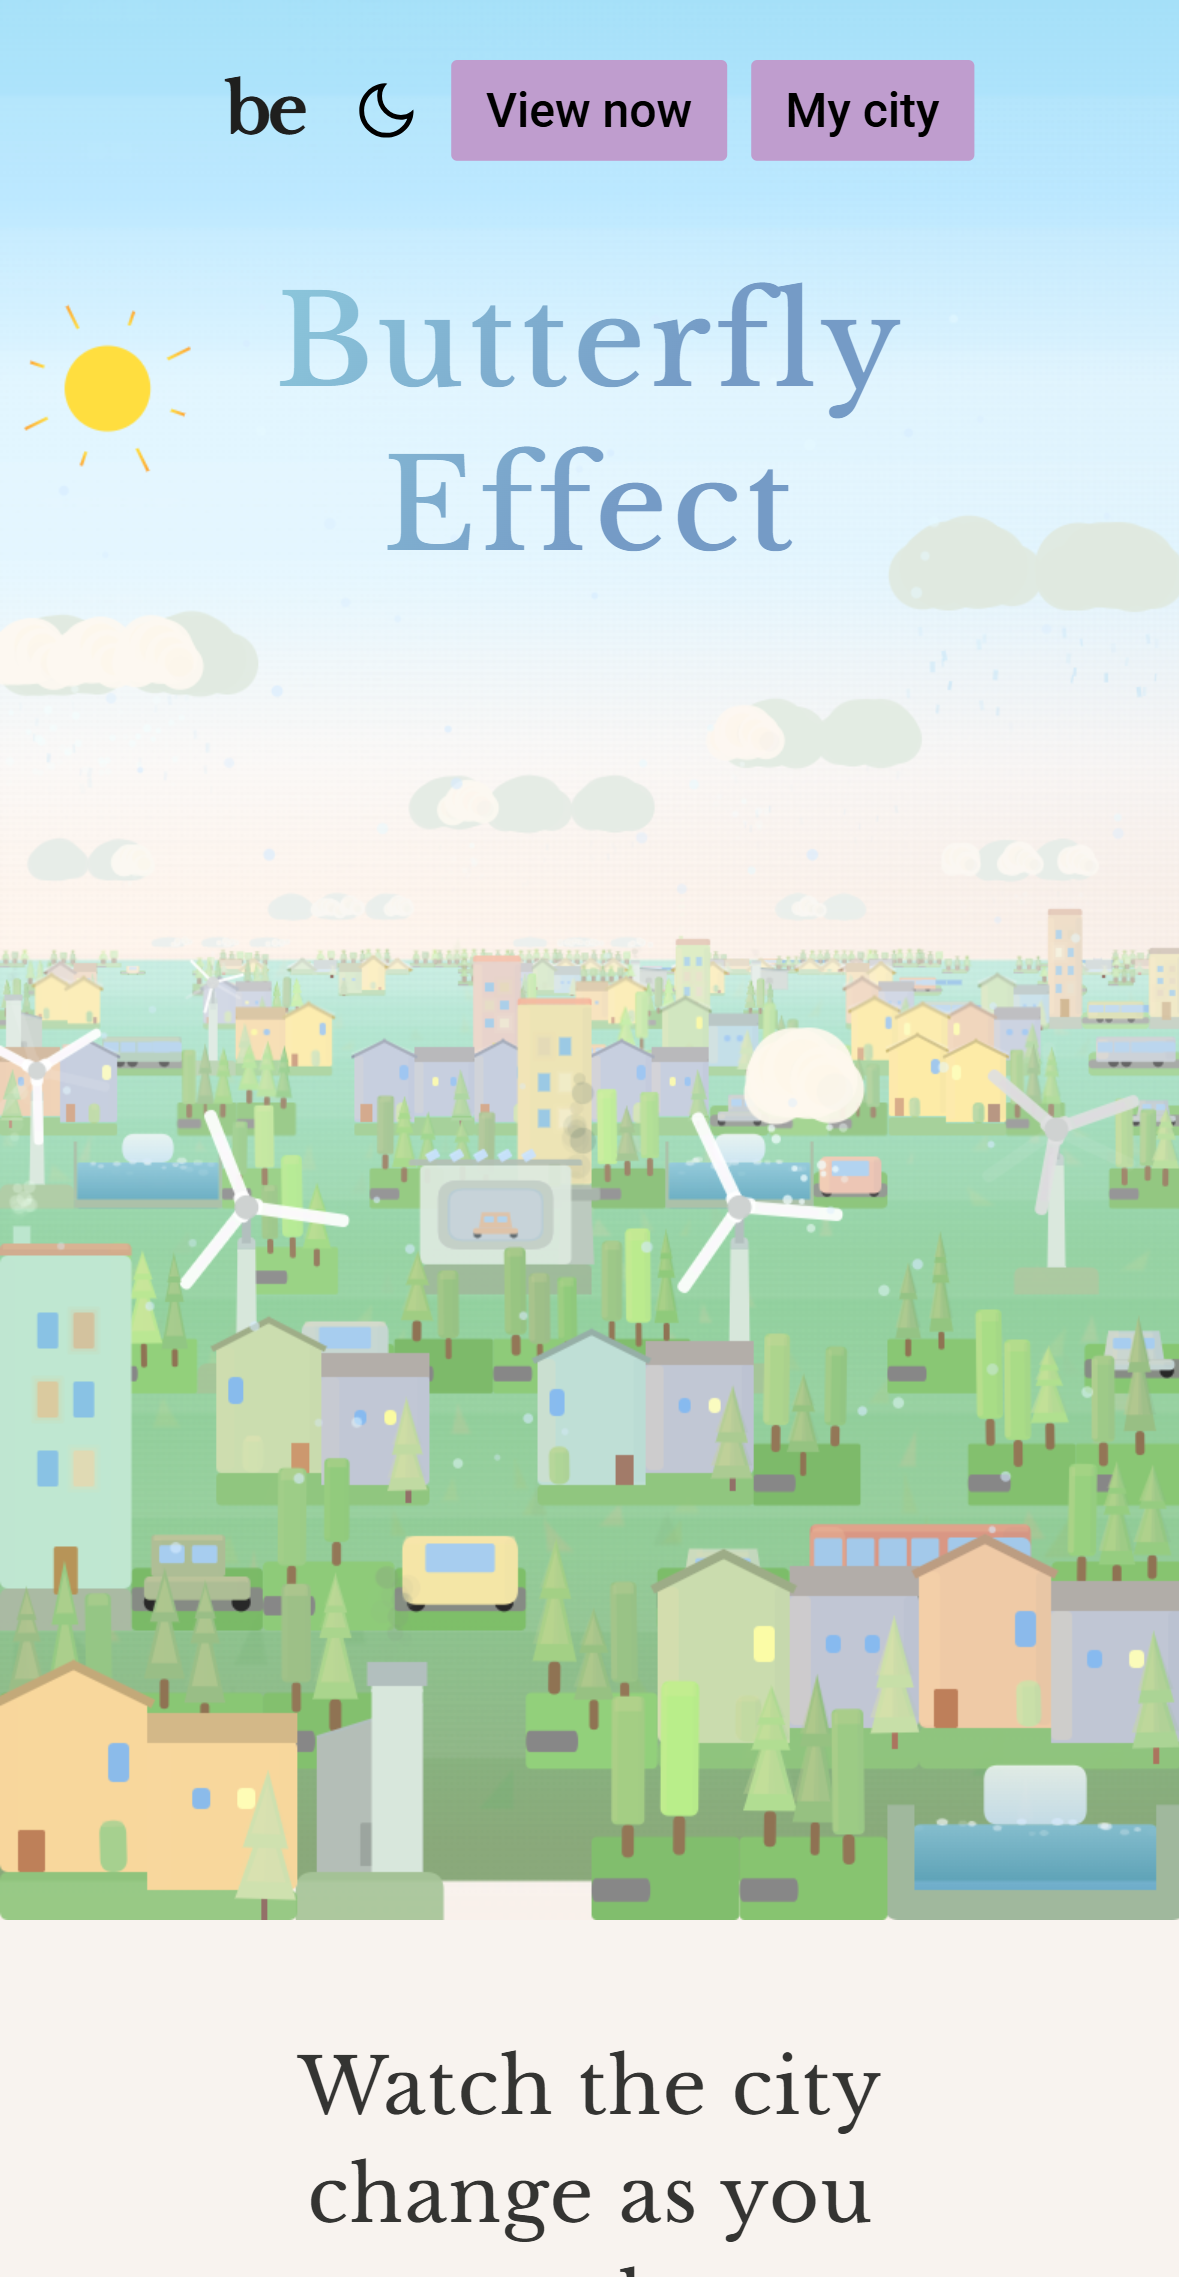
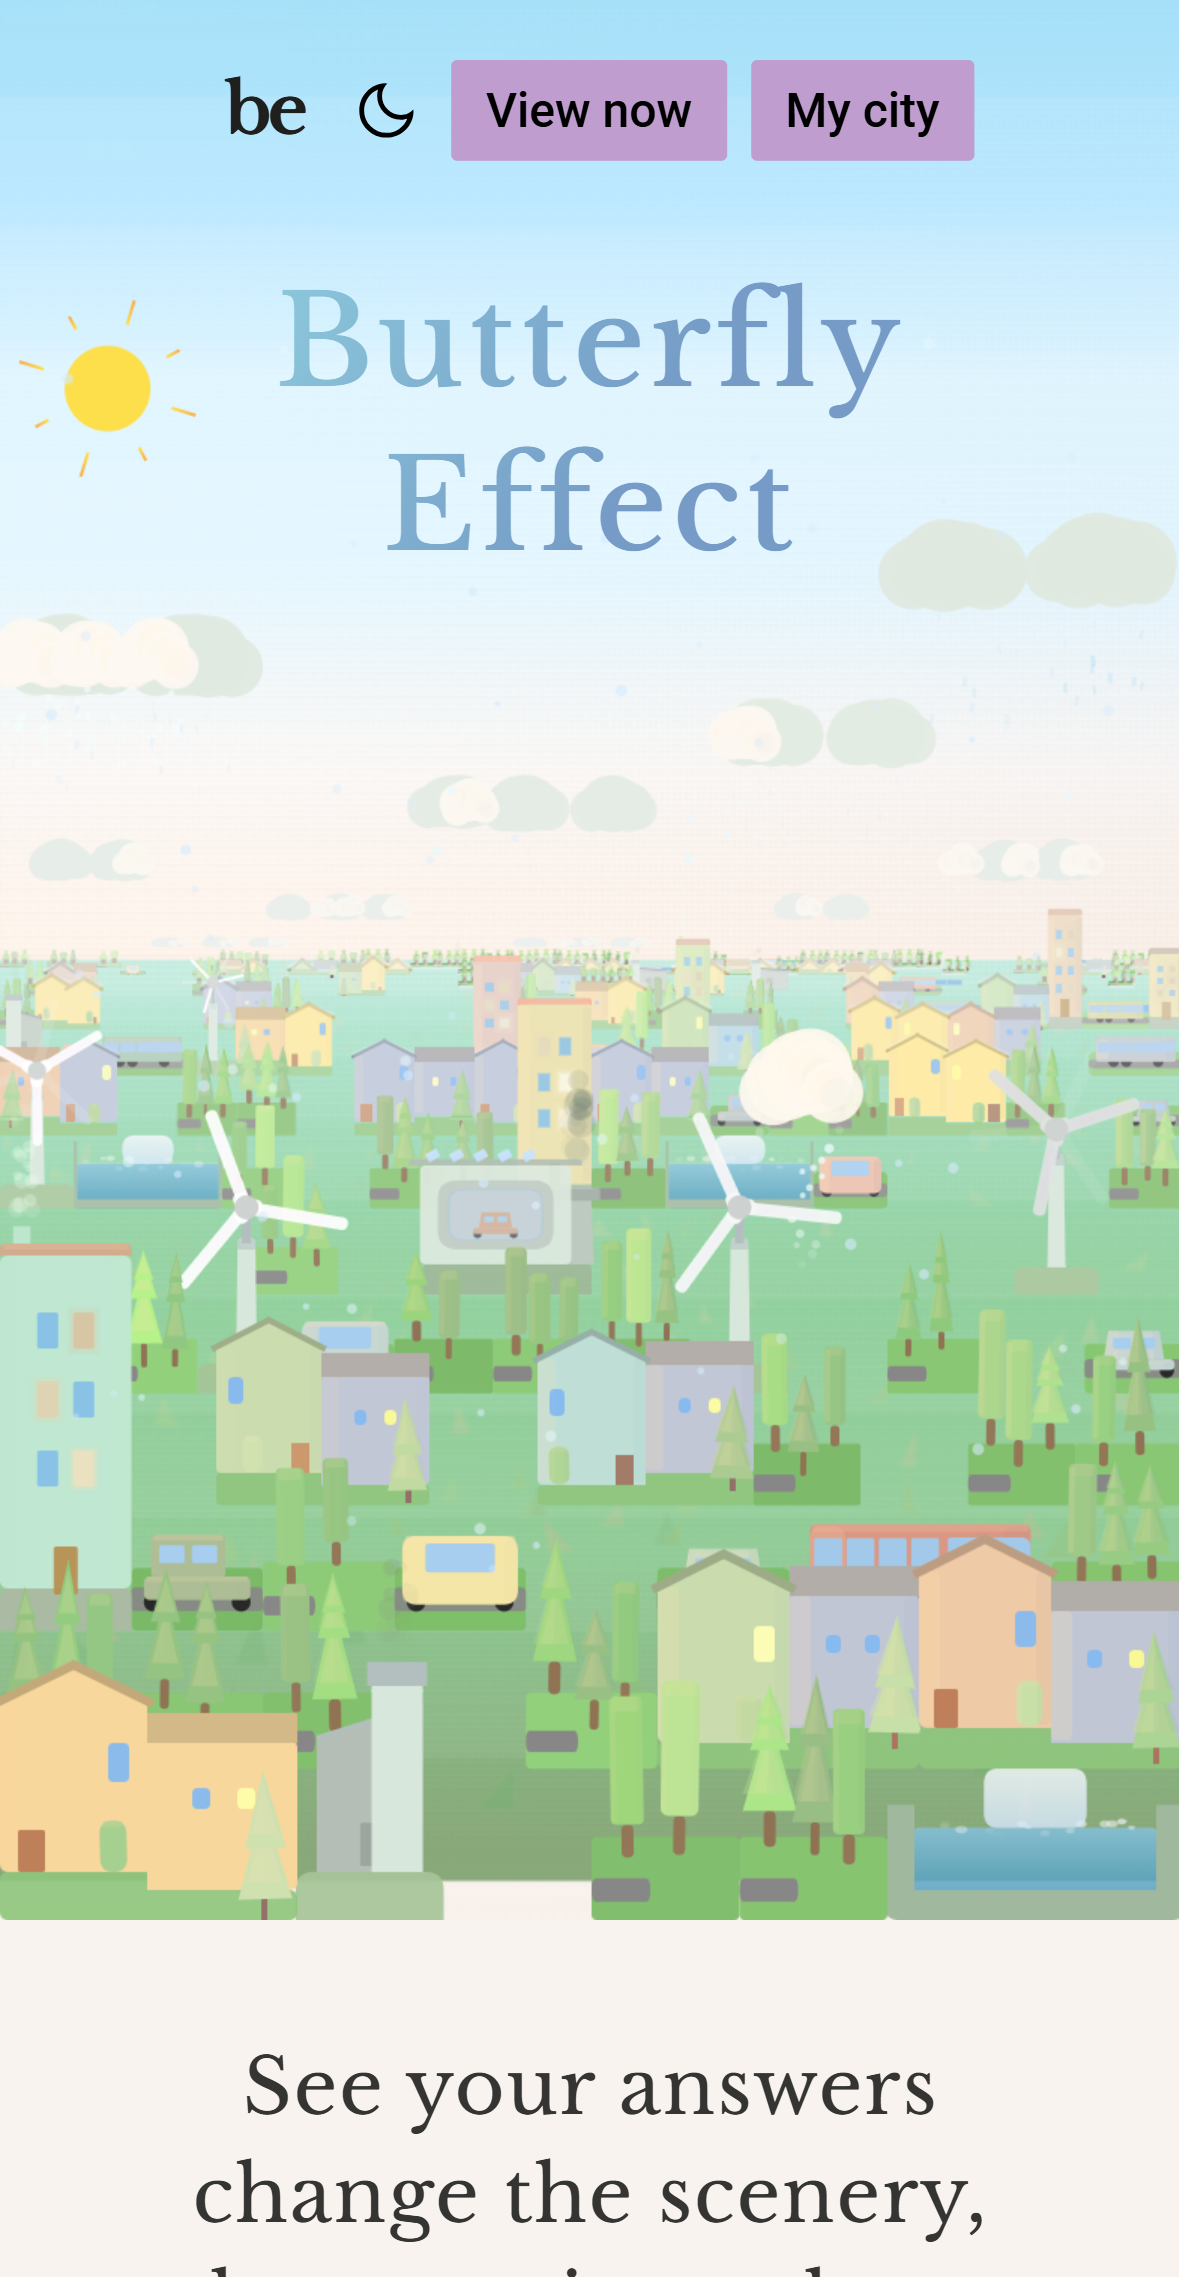
Update onboarding copy and media captures

diff --git a/app/src/scene-canvas/scene-rules/placement-rules/questionnaire.ts b/app/src/scene-canvas/scene-rules/placement-rules/questionnaire.ts
@@ -805,7 +805,7 @@ export const QUESTIONNAIRE_PLACEMENTS: ScenePlacementRules = {
           villa: { count: count(1, 3, 4), quota: Q.villa },
           car: { count: count(1, 2, 1), quota: Q.car },
           bus: { count: count(1, 1, 0), quota: Q.bus },
-          trees: { count: count(1, 6, 8), quota: Q.trees },
+          trees: { count: count(1, 6, 24), quota: Q.trees },
         },
       },
       {
@@ -815,7 +815,7 @@ export const QUESTIONNAIRE_PLACEMENTS: ScenePlacementRules = {
         radius: { tiles: 6, xDistort: 8, yDistort: 0.8 },
         shapes: {
           villa: { count: count(0, 0, 2), quota: Q.villa },
-          trees: { count: count(0, 0, 6), quota: Q.trees },
+          trees: { count: count(0, 0, 16), quota: Q.trees },
         },
       },
       {
@@ -896,7 +896,7 @@ export const QUESTIONNAIRE_PLACEMENTS: ScenePlacementRules = {
           villa: { count: count(1, 1, 2), quota: Q.villa },
           car: { count: count(1, 1, 3), quota: Q.car },
           bus: { count: count(1, 0, 2), quota: Q.bus },
-          trees: { count: count(1, 3, 6), quota: Q.trees },
+          trees: { count: count(1, 3, 12), quota: Q.trees },
         },
       },
       {

diff --git a/app/src/onboarding/role-picker/role-step.tsx b/app/src/onboarding/role-picker/role-step.tsx
@@ -23,7 +23,7 @@ export default function RoleStep({ value, onChange, onNext, error }: RoleStepPro
   return (
     <section className="survey survey-step role-select">
         <div className="onboarding">
-          <h2 className="welcome-text">See your answers shape the scenery, then receive a shape that joins the others.</h2>
+          <h2 className="welcome-text">See your answers change the scenery, then receive a shape that joins the others.</h2>
 
           <RolePicker value={value} onChange={onChange} errorId={errorId} />
 

diff --git a/app/src/scene-canvas/scene-rules/placement-rules/start.ts b/app/src/scene-canvas/scene-rules/placement-rules/start.ts
@@ -656,7 +656,7 @@ export const START_PLACEMENTS: ScenePlacementRules = {
         center: { x: 0.5, y: 0.7 },
         radius: { tiles: 4, xDistort: 6, yDistort: 2 },
         shapes: {
-          villa: { count: count(0, 1, 1), quota: S.villa },
+          villa: { count: count(0, 1, 3), quota: S.villa },
           trees: { count: count(1, 2, 6), quota: S.trees },
           car: { count: count(1, 1, 1), quota: S.car },
           house: { count: count(0, 1, 0), quota: S.house },

diff --git a/app/src/styles/onboarding-info.css b/app/src/styles/onboarding-info.css
@@ -21,7 +21,7 @@
 }
 
 .survey-section, .survey-step, .onboarding { width: 100%; }
-.user-flow { width: 100%; display: flex; inset: 0; align-items: center; pointer-events: none; z-index: 6; }
+.user-flow { width: 100%; display: flex; inset: 0; align-items: center; z-index: 6; }
 .user-flow.questionnaire-active { max-width: 100vw; overflow: hidden; overflow: clip; }
 .button-wrap { display: flex; justify-content: center; align-self: stretch; }
 .error-container, .error-container h2, .error-container p { color: var(--ui-error); width: 100%; text-align: center; }

diff --git a/README.md b/README.md
@@ -5,8 +5,8 @@ An application that uses a custom 2.5D Canvas2D implementation to render an inte
 [![Live App](https://img.shields.io/badge/Live%20App-%23845f87?style=for-the-badge)](https://butterflyeff3ct.online/)
 
 <p align="left">
-  <img src="gifs+images/desktop-onboarding.gif" alt="Onboarding: Desktop view of the landing page and call to actions." width="64%" />
-  <img src="gifs+images/tablet-questionnaire.gif" alt="Questionnaire: Tablet view of step with multi-select inputs changing city." width="34%" />
+  <img src="gifs+images/desktop-onboarding.gif" alt="Onboarding: Desktop view of the landing page and call to actions." width="58%" />
+  <img src="gifs+images/tablet-questionnaire.gif" alt="Questionnaire: Tablet view of step with multi-select inputs changing city." width="30%" />
 </p>
 
 <br>